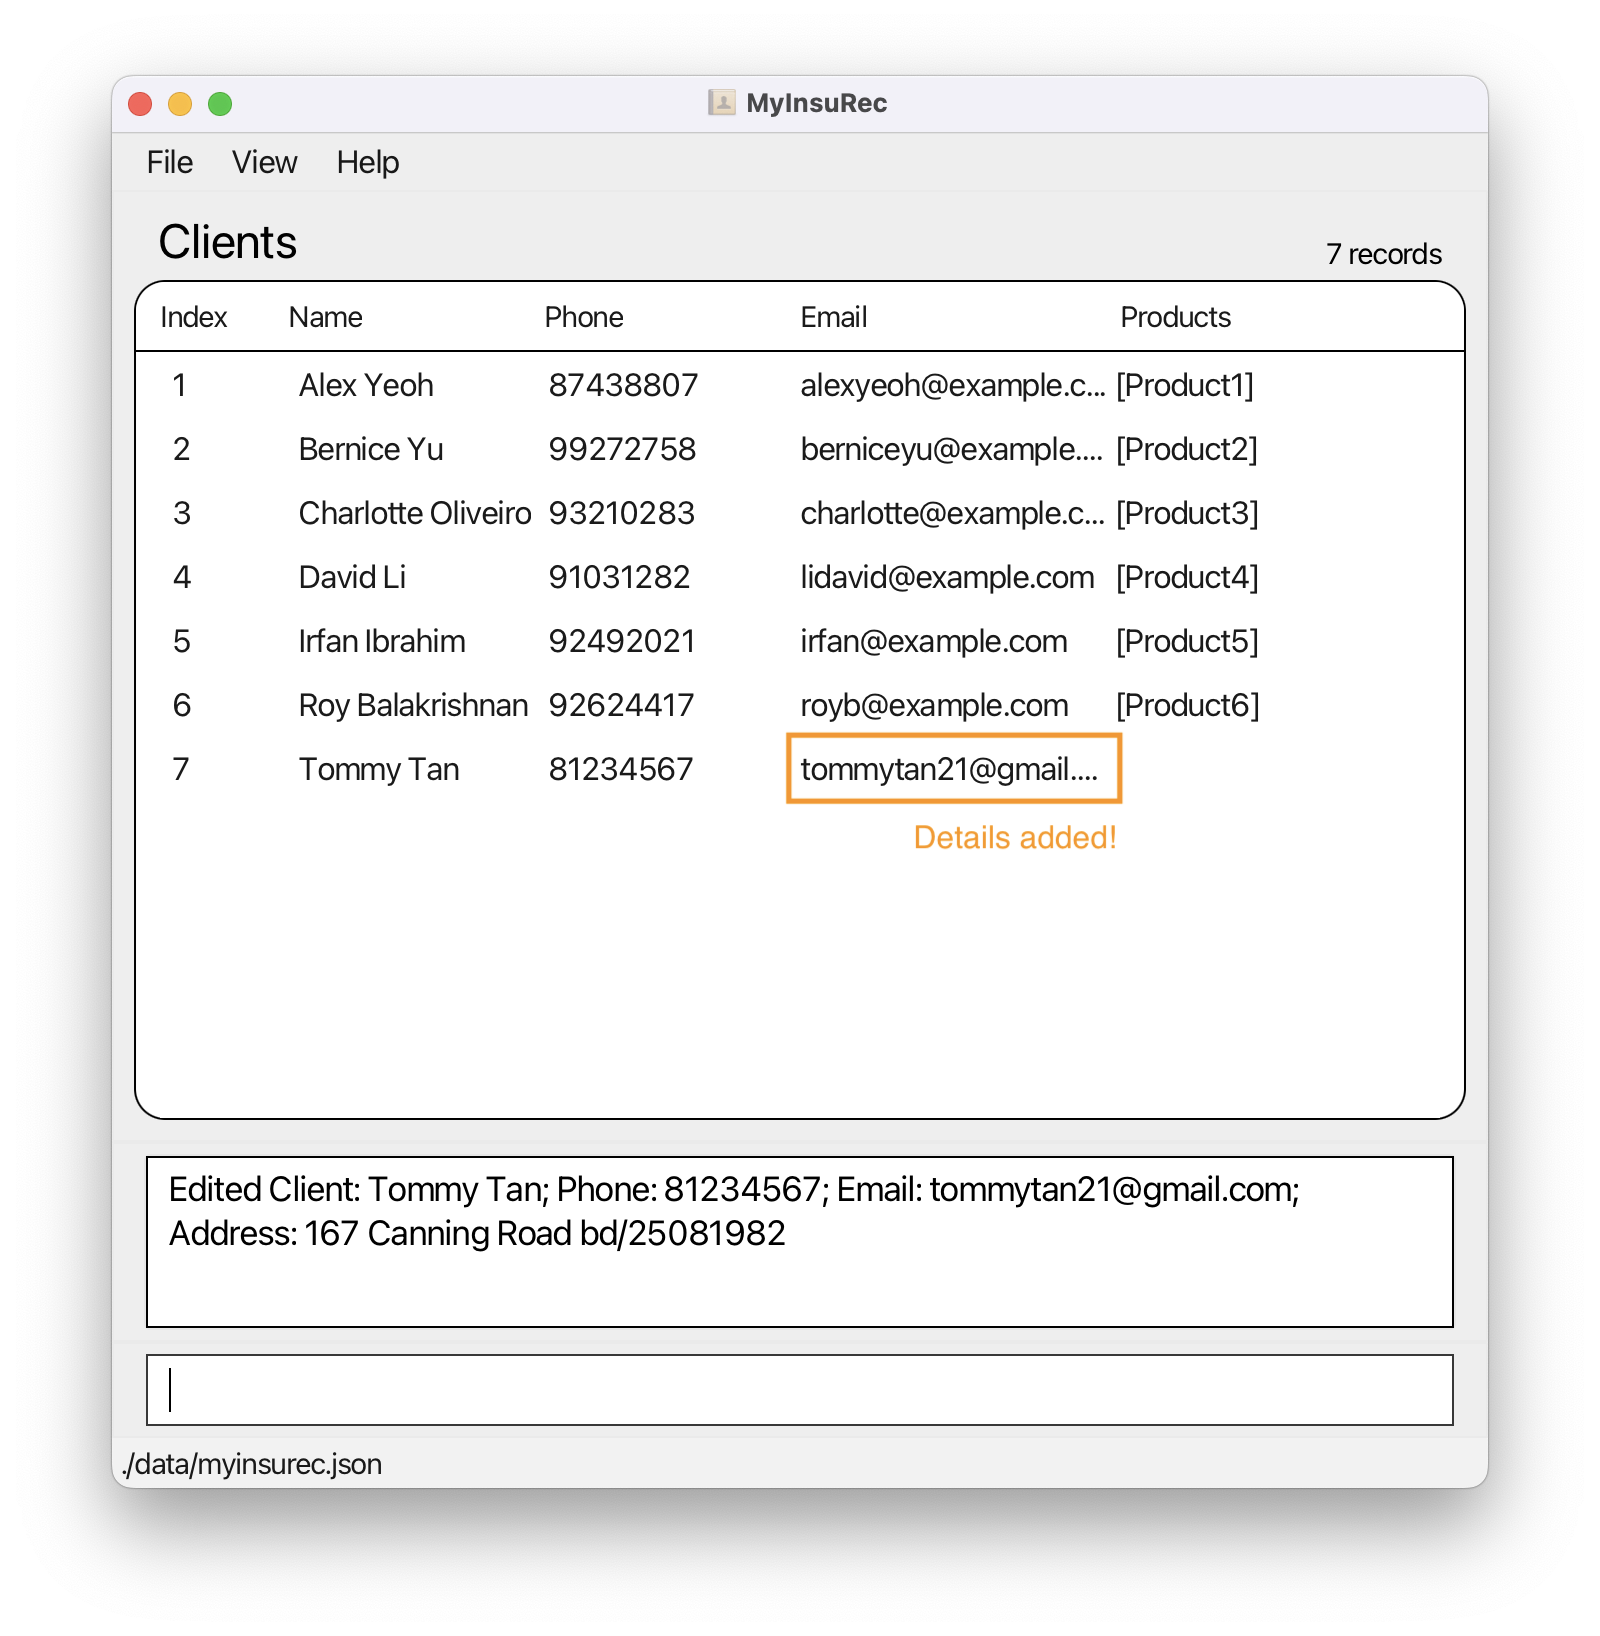
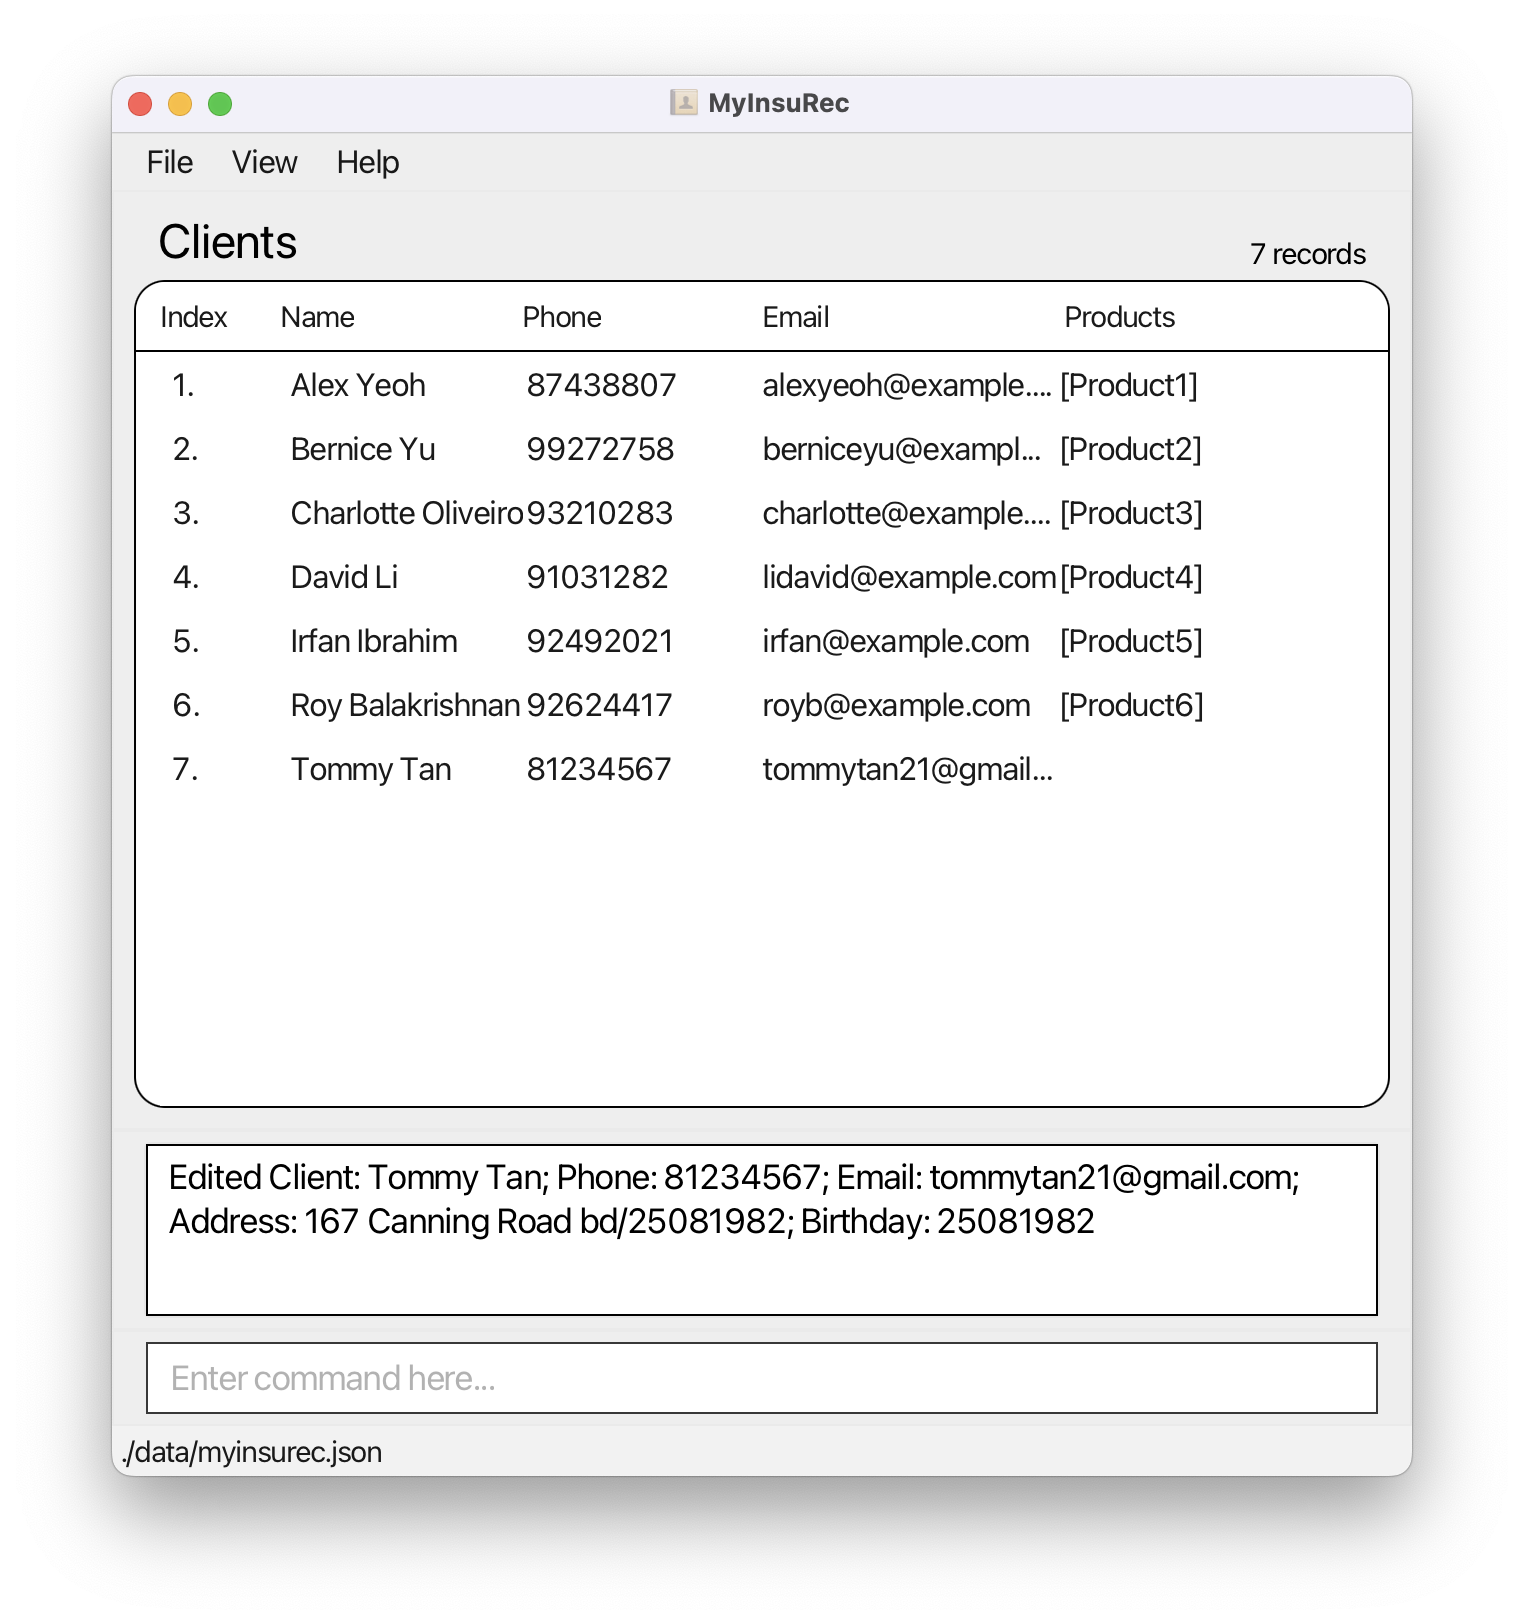
Add changes to quick start

Changed region(s): [[0.0617, 0.0308, 0.956, 0.9236], [0.4934, 0.1847, 0.8018, 0.5234], [0.4318, 0.0616, 0.5551, 0.0924]]

diff --git a/docs/UserGuide.md b/docs/UserGuide.md
@@ -207,7 +207,7 @@ Here, we will be guiding you on the basic features of *MyInsuRec* and helping yo
 Both client name and their phone number are **needed** to add the client into *MyInsuRec*.
 </div>
 
-* Tommy has also given us his email address, his address, as well as his birthday. As such, we would like to update Tommy's record. To do that, we first need to get Tommy's index from the list of clients, which is 7. Type in `editClient i/7 e/tommytan21@gmail.com a/167 Canning Road bd/25081982` and hit enter. Tommy's record in the list of clients will update with the newly inputted details. The image below shows *MyInsuRec* after updating Tommy with the additional details.
+* Tommy has also given us his email address, his address, as well as his birthday. As such, we would like to update Tommy's record. To do that, we first need to get Tommy's index from the list of clients, which is 7. Type in `editClient i/7 e/tommytan21@gmail.com a/167 Canning Road b/25081982` and hit enter. Tommy's record in the list of clients will update with the newly inputted details. The image below shows *MyInsuRec* after updating Tommy with the additional details.
 
 ![EditClientTommy](images/quick-start/EditClientTommy.png)
 
@@ -217,7 +217,11 @@ Both client name and their phone number are **needed** to add the client into *M
 See [addClient](#711-adding-a-client-addclient) for more variety of optional fields!
 </div>
 
-* Now we would like to add in an upcoming meeting with our client 'Bernice Yu' (index 2 in our sample data). We can do that by doing `addMeeting i/2 d/27102022 st/1400 et/1600 dn/Review Product 2` (You can replace `d/27102022` with today's date in the DDMMYYYY format)! When we hit enter, *MyInsuRec* will show us the list of meetings, including the one we just added. The image below shows the list of meetings after adding the meeting with Bernice.
+* Now we would like to add in an upcoming meeting with our client 'Bernice Yu' (index 2 in our sample data). We can do that by doing `addMeeting i/2 d/27102022 st/1400 et/1600 dn/Review plan` (You should replace `d/27102022` with a future date in the DDMMYYYY format)! When we hit enter, *MyInsuRec* will show us the list of meetings, including the one we just added. The image below shows the list of meetings after adding the meeting with Bernice.
+
+<div markdown="span" class="alert alert-info">**:information_source: Note:**
+The date for meeting should not be in the past.
+</div>
 
 ![AddMeetingBernice](images/quick-start/AddMeetingBernice.png)
 
